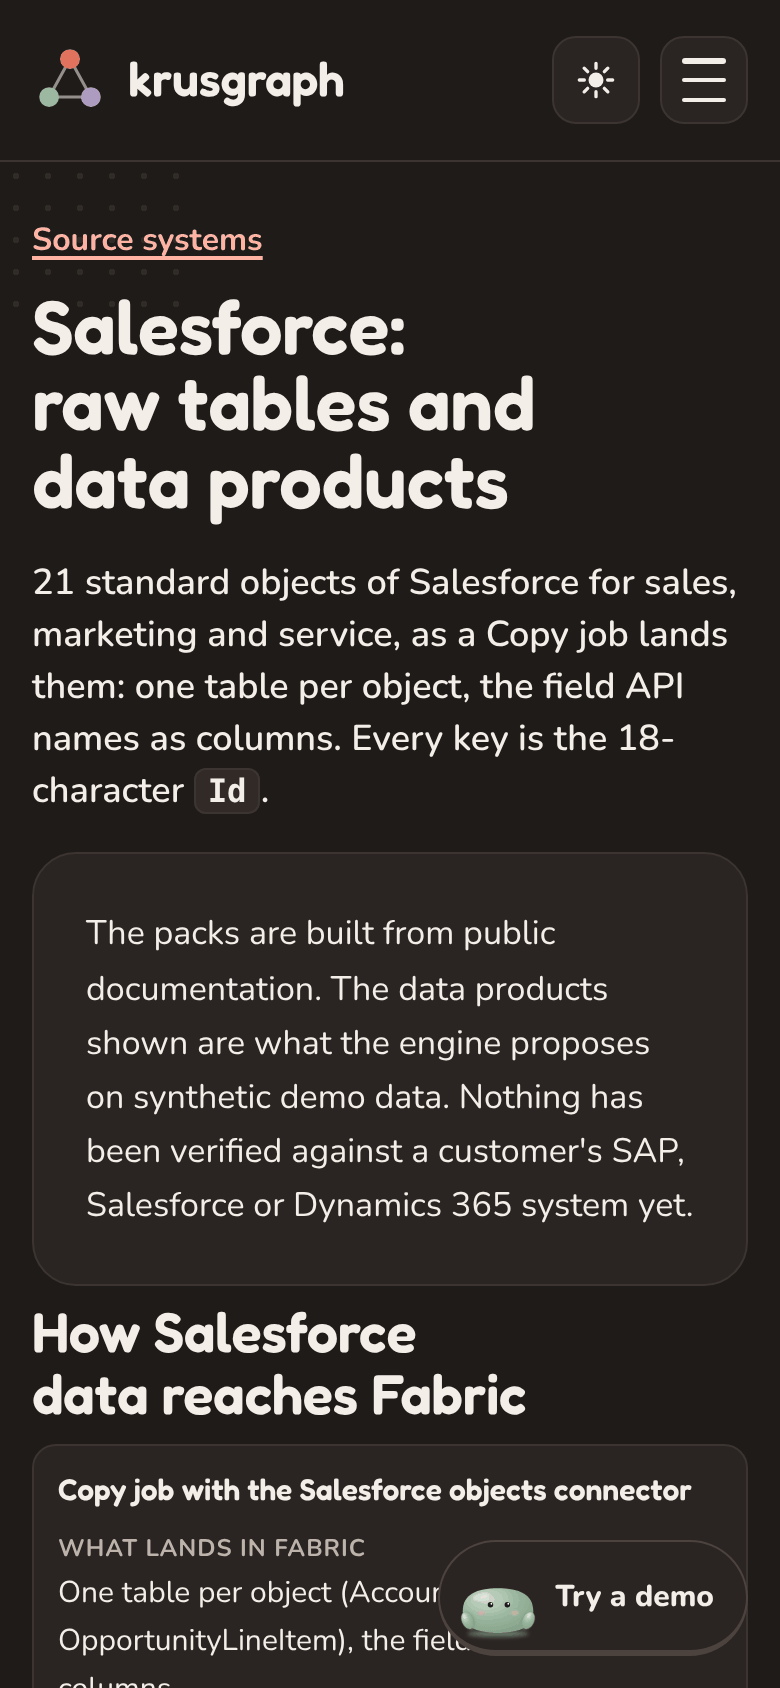
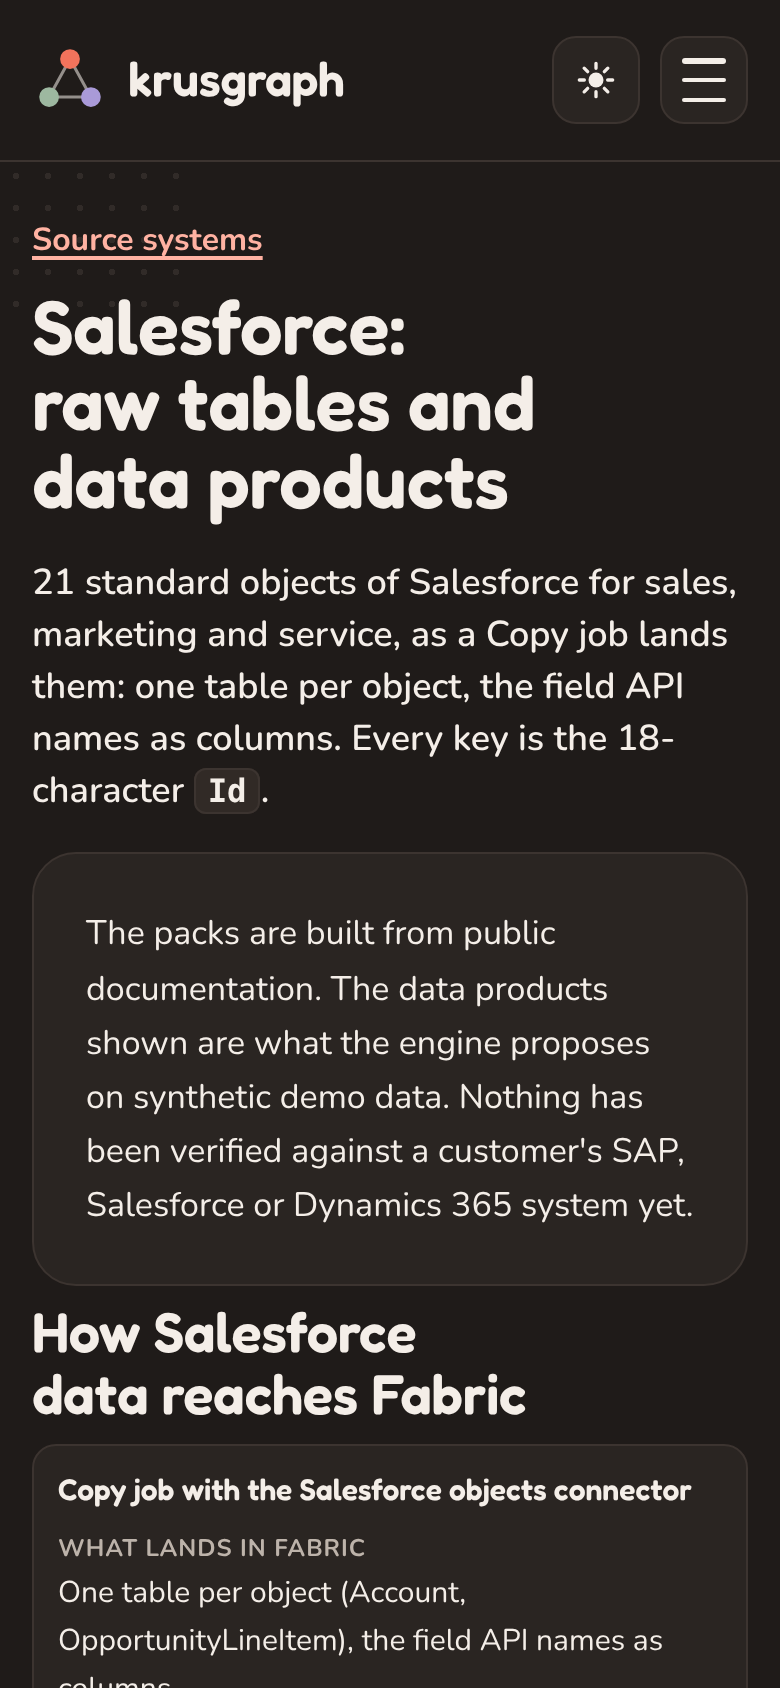
SRC2: the 'Try a demo' button covers no card or table on /sources and its two source pages
At 1280 px the button covered the top right corner of the Dynamics 365 card on /sources. The cards, the honesty box,
the tables and the module blocks now carry data-kgc-avoid, so site.js's existing step-aside (n154, as on /check) hides
the button while it would cover one; a table inside a module's <details> leaves that to the <details>, since Chrome
reports boxes for the content of a closed one. tests/browser_src1_pill.js scrolls each page top to bottom at 390, 768,
1280 and 1440 px and finds no visible button over a card or table. test_site's '403' check ignores the asset hash
(?v=06dc67403b). Screenshots in docs/media/src1/ regenerated. No wording changed.

Changed region(s): [[0.5538, 0.9242, 0.9231, 0.9858]]

diff --git a/tests/browser_src1_pill.js b/tests/browser_src1_pill.js
@@ -1,0 +1,45 @@
+// SRC2: the chat's "Try a demo" button on /sources and its two source pages at 390, 768, 1280 and 1440 px: scrolled
+// from top to bottom, wherever the button is visible its box intersects no card and no table (it steps aside over
+// [data-kgc-avoid], site.js, as on /check). Usage: node browser_src1_pill.js <base> [chromium]
+const { chromium } = require('playwright');
+const [base, exe] = process.argv.slice(2);
+(async () => {
+  const browser = await chromium.launch(exe ? { executablePath: exe } : {});
+  const errors = [], runs = {};
+  for (const path of ['/sources', '/sources/salesforce', '/sources/dynamics365']) {
+    for (const width of [390, 768, 1280, 1440]) {
+      const mobile = width === 390;
+      const ctx = await browser.newContext({ viewport: { width, height: mobile ? 844 : 900 }, isMobile: mobile, hasTouch: mobile });
+      const page = await ctx.newPage();
+      page.on('pageerror', (e) => errors.push(`${path} ${width}: ${e.message}`));
+      await page.goto(base + path, { waitUntil: 'load' });
+      await page.waitForTimeout(300);
+      const run = { pill: false, steps: 0, shown: 0, hits: [] };
+      const total = await page.evaluate(() => document.documentElement.scrollHeight - innerHeight);
+      for (let y = 0; ; y = Math.min(y + 150, total)) {
+        await page.evaluate((top) => window.scrollTo(0, top), y);
+        await page.evaluate(() => new Promise((r) => requestAnimationFrame(() => requestAnimationFrame(r))));
+        const r = await page.evaluate(() => {
+          const b = document.getElementById('kgcLaunch');
+          if (!b || b.hidden) return { pill: false };
+          const s = getComputedStyle(b), p = b.getBoundingClientRect();
+          if (s.visibility === 'hidden' || s.display === 'none' || s.opacity === '0') return { pill: true, shown: false };
+          const hits = [...document.querySelectorAll('[data-page] .card, [data-page] table, [data-page] .table-wrap, [data-page] .src-mod')]
+            .filter((el) => el.matches('details') || !el.closest('details:not([open])'))   // a closed <details>' content is not shown
+            .filter((el) => { const q = el.getBoundingClientRect();
+              return q.width && q.left < p.right && p.left < q.right && q.top < p.bottom && p.top < q.bottom; })
+            .map((el) => el.tagName + '.' + el.className + (el.id ? '#' + el.id : ''));
+          return { pill: true, shown: true, hits };
+        });
+        run.steps++;
+        if (r.pill) run.pill = true;
+        if (r.shown) { run.shown++; if (r.hits.length) run.hits.push({ y, hits: r.hits.slice(0, 3) }); }
+        if (y >= total) break;
+      }
+      runs[`${path} ${width}`] = run;
+      await ctx.close();
+    }
+  }
+  await browser.close();
+  console.log(JSON.stringify({ errors, runs }));
+})();

diff --git a/fabric_backend/page_templates/sources.html b/fabric_backend/page_templates/sources.html
@@ -4,7 +4,7 @@
   <p class="eyebrow">Source systems</p>
   <h1>SAP, Salesforce and Dynamics 365: the raw tables {{PRODUCT}} knows</h1>
   <p class="lede">Which raw tables {{PRODUCT}} recognises by name, how they land in Microsoft Fabric, and which data products the engine proposes from them. Every list on this page is read from the knowledge packs and from the engine's own run, not typed by hand.</p>
-  <div class="card soft src-honest-box"><p>{{SRC_HONEST_TOP}}</p></div>
+  <div class="card soft src-honest-box" data-kgc-avoid><p>{{SRC_HONEST_TOP}}</p></div>
 </section>
 
 <section class="wrap" aria-labelledby="src-three-h" style="padding-top:0">

diff --git a/fabric_backend/page_templates/sources_salesforce.html b/fabric_backend/page_templates/sources_salesforce.html
@@ -4,7 +4,7 @@
   <p class="eyebrow"><a href="/sources">Source systems</a></p>
   <h1>Salesforce: raw tables and data products</h1>
   <p class="lede">{{SRC_SALESFORCE_COUNT}} standard objects of Salesforce for sales, marketing and service, as a Copy job lands them: one table per object, the field API names as columns. Every key is the 18-character <code>Id</code>.</p>
-  <div class="card soft src-honest-box"><p>{{SRC_HONEST_TOP}}</p></div>
+  <div class="card soft src-honest-box" data-kgc-avoid><p>{{SRC_HONEST_TOP}}</p></div>
 </section>
 
 <section class="wrap" aria-labelledby="src-routes-h" style="padding-top:0">

diff --git a/fabric_backend/page_templates/sources_dynamics365.html b/fabric_backend/page_templates/sources_dynamics365.html
@@ -4,7 +4,7 @@
   <p class="eyebrow"><a href="/sources">Source systems</a></p>
   <h1>Dynamics 365: raw tables and data products</h1>
   <p class="lede">{{SRC_DYNAMICS365_COUNT}} tables: Dataverse tables of Dynamics 365 Sales and Customer Service, and Business Central base application tables, as they land in Fabric.</p>
-  <div class="card soft src-honest-box"><p>{{SRC_HONEST_TOP}}</p></div>
+  <div class="card soft src-honest-box" data-kgc-avoid><p>{{SRC_HONEST_TOP}}</p></div>
 </section>
 
 <section class="wrap" aria-labelledby="src-routes-h" style="padding-top:0">

diff --git a/fabric_backend/sources_page.py b/fabric_backend/sources_page.py
@@ -263,11 +263,13 @@ def _code(pack: str, name: str) -> str:
     return f'<code data-pack="{e(pack)}" data-pack-table="{e(name)}" title="{e(title)}">{e(display_name(pack, name))}</code>'
 
 
-def _wrap(head: tuple[str, ...], rows: list[list[str]], label: str) -> str:
-    """A table that stacks into labelled blocks on a phone (each cell carries its column's name in data-label)."""
+def _wrap(head: tuple[str, ...], rows: list[list[str]], label: str, avoid: bool = True) -> str:
+    """A table that stacks into labelled blocks on a phone (each cell carries its column's name in data-label). SRC2:
+    data-kgc-avoid makes the "Try a demo" button step aside while it would cover the table (site.js); a table inside a
+    module's <details> leaves that to the <details>, since Chrome reports boxes for the content of a closed one."""
     body = "".join("<tr>" + "".join((f'<th scope="row" data-label="{e(head[i])}">{c}</th>' if i == 0 else
                                      f'<td data-label="{e(head[i])}">{c}</td>') for i, c in enumerate(r)) + "</tr>" for r in rows)
-    return (f'<div class="table-wrap src-stack" role="region" aria-label="{e(label)}"><table><thead><tr>'
+    return (f'<div class="table-wrap src-stack"{" data-kgc-avoid" if avoid else ""} role="region" aria-label="{e(label)}"><table><thead><tr>'
             + "".join(f'<th scope="col">{h}</th>' for h in head) + f"</tr></thead><tbody>{body}</tbody></table></div>")
 
 
@@ -300,9 +302,9 @@ def tables_html(key: str) -> str:
                        for r in mod["relationships"])
         traps = "".join(f'<li>{e(t["title"])}</li>' for t in mod["traps"])
         out.append(
-            f'<details class="src-mod"{" open" if i == 0 else ""}><summary><span class="src-mod-t">{e(mod["title"])}</span> '
+            f'<details class="src-mod" data-kgc-avoid{" open" if i == 0 else ""}><summary><span class="src-mod-t">{e(mod["title"])}</span> '
             f'<span class="pill">{len(mod["tables"])} tables</span></summary>'
-            + _wrap(("Table", "In plain words", "Level", "Key"), rows, "Tables of " + mod["module"])
+            + _wrap(("Table", "In plain words", "Level", "Key"), rows, "Tables of " + mod["module"], avoid=False)
             + (f'<h4>Main links ({len(mod["relationships"])} applied)</h4><ul class="src-rels">{rels}</ul>' if rels else "")
             + (f'<h4>Traps</h4><ul class="src-traps">{traps}</ul>' if traps else "")
             + "</details>")
@@ -340,7 +342,7 @@ def overview_html() -> tuple[str, str]:
         say = (f'The {s["name"]} pack knows {s["tables"]} tables in {s["modules"]} '
                f'{"module" if s["modules"] == 1 else "modules"}; on the {s["demo_tables"]}-table demo the engine proposes '
                f'{len(s["products"])} data products.')
-        cards += (f'<li class="card src-card" id="card-{s["key"]}"><div class="src-say"><span class="src-fig" aria-hidden="true">'
+        cards += (f'<li class="card src-card" id="card-{s["key"]}" data-kgc-avoid><div class="src-say"><span class="src-fig" aria-hidden="true">'
                   f'<span data-mascot="onto" data-pose="point" data-label=""></span></span>'
                   f'<p><span class="visually-hidden">Onto says: </span>{e(say)}</p></div>'
                   f'<h3>{e(s["name"])}</h3><p class="muted">{e(manifest(pack)["title"])}</p>'

diff --git a/tests/test_src1_sources_page.py b/tests/test_src1_sources_page.py
@@ -159,8 +159,7 @@ def _playwright() -> bool:
     return bool(shutil.which("node")) and subprocess.run(["node", "-e", "require('playwright')"], capture_output=True).returncode == 0
 
 
-@pytest.mark.skipif(not _playwright(), reason="node + playwright not available")
-def test_no_sideways_scroll_at_390_px_light_and_dark():
+def _run_browser(script):
     sock = socket.socket(); sock.bind(("127.0.0.1", 0)); port = sock.getsockname()[1]; sock.close()
     env = os.environ | {"PRODUCT_NAME": "Krusgraph", "MCP_PUBLIC_URL": "https://krusgraph.test/mcp", "CONTACT_EMAIL": "hello@krusgraph.test",
                         "ENTRA_CLIENT_ID": "00000000-0000-0000-0000-000000000000", "ENTRA_CLIENT_SECRET": "test-only", "KRUSGRAPH_PREVIEW": "1"}
@@ -174,12 +173,40 @@ def test_no_sideways_scroll_at_390_px_light_and_dark():
             except Exception:
                 time.sleep(0.25)
         from tests.test_browser import CHROMIUM
-        out = subprocess.run(["node", str(ROOT / "tests" / "browser_src1_sources.js"), base] + ([CHROMIUM] if CHROMIUM else []),
+        out = subprocess.run(["node", str(ROOT / "tests" / script), base] + ([CHROMIUM] if CHROMIUM else []),
                              capture_output=True, text=True, timeout=300)
         assert out.returncode == 0, out.stderr[-2000:]
-        res = json.loads(out.stdout.strip().splitlines()[-1])
+        return json.loads(out.stdout.strip().splitlines()[-1])
     finally:
         proc.terminate(); proc.wait(timeout=10)
+
+
+@pytest.mark.skipif(not _playwright(), reason="node + playwright not available")
+def test_no_sideways_scroll_at_390_px_light_and_dark():
+    res = _run_browser("browser_src1_sources.js")
     assert res["errors"] == []
     for key, r in res["pages"].items():
         assert r["scrollWidth"] <= r["width"] and r["wide"] == [], (key, r)
+
+
+def test_the_cards_and_tables_ask_the_demo_button_to_step_aside(pages):
+    """SRC2: every card, table and module block (a table inside a module's <details> through the <details>) carries data-kgc-avoid, so site.js hides the "Try a demo" button while
+    it would cover one (as on /check)."""
+    for p, r in pages.items():
+        mods = re.findall(r'<details class="src-mod"[^>]*>', r.text)
+        assert mods and all("data-kgc-avoid" in m for m in mods), p
+        outside = re.sub(r'<details class="src-mod".*?</details>', "", r.text, flags=re.S)
+        found = re.findall(r'<(?:li|div) class="(?:card[^"]*|table-wrap[^"]*)"[^>]*>', outside)
+        assert found and all("data-kgc-avoid" in m for m in found), (p, [m for m in found if "data-kgc-avoid" not in m])
+
+
+@pytest.mark.skipif(not _playwright(), reason="node + playwright not available")
+def test_the_demo_button_covers_no_card_or_table_at_390_768_1280_1440():
+    """SRC2: at 1280 px the button covered the top right corner of the Dynamics 365 card on /sources. Scrolled from top
+    to bottom at four widths, wherever the button is visible its box intersects no card and no table."""
+    res = _run_browser("browser_src1_pill.js")
+    assert res["errors"] == []
+    assert len(res["runs"]) == 12
+    for key, r in res["runs"].items():
+        assert r["pill"] and r["steps"] > 1, (key, r)
+        assert r["hits"] == [], (key, r["hits"])

diff --git a/tests/test_site.py b/tests/test_site.py
@@ -1084,7 +1084,8 @@ def test_the_home_page_shows_the_total_that_doubles_first_and_the_map_later(clie
     example = text[text.index('id="example"'):text.index("</section>", text.index('id="example"'))]
     assert f"{amount * 2:,.0f}".replace(",", " ") in example and f"{amount:,.0f}".replace(",", " ") in example
     docs = docs_all(client)                                   # n183: the status sentence moved to the docs' test status
-    assert "403" not in text and "cause unknown" not in text and "not yet reviewed" not in text
+    words = re.sub(r"\?v=[0-9a-f]+", "", text)              # SRC2: the asset hash (06dc67403b) is not a status
+    assert "403" not in words and "cause unknown" not in text and "not yet reviewed" not in text
 
 
 def test_the_same_promise_on_the_site_docs_llms_and_readme(client):
